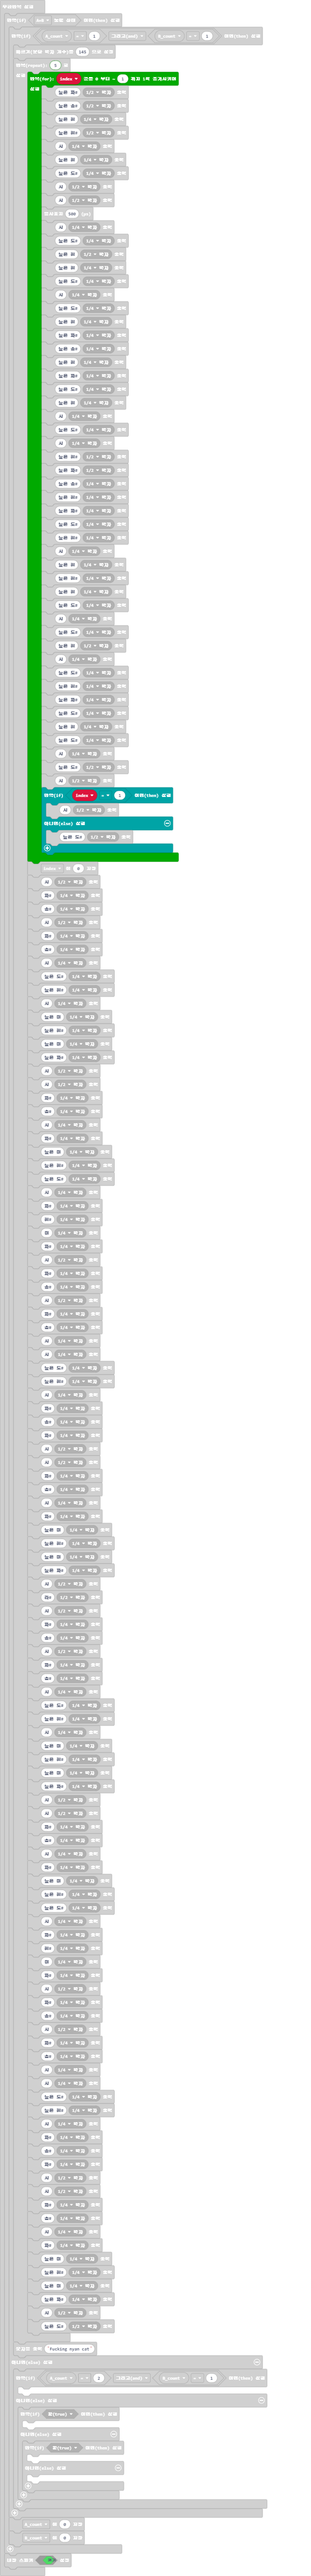
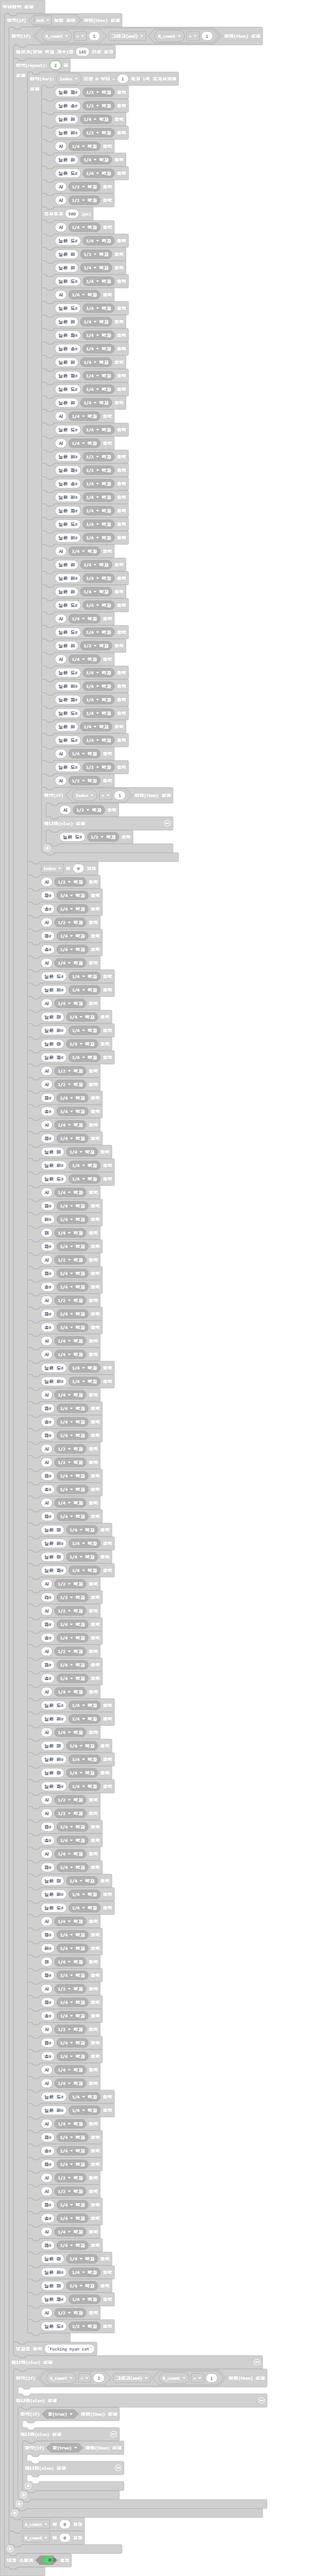
main.blocks, main.ts 업데이트하기

Changed region(s): [[0.0615, 0.0, 0.5841, 0.3434], [0.4304, 0.0, 0.4919, 0.0312], [0.3382, 0.0, 0.3689, 0.0312]]

diff --git a/main.ts b/main.ts
@@ -17,7 +17,7 @@ basic.forever(function () {
     if (input.buttonIsPressed(Button.AB)) {
         if (A_count == 1 && B_count == 1) {
             music.setTempo(145)
-            for (let index2 = 0; index2 < 5; index2++) {
+            for (let index2 = 0; index2 < 2; index2++) {
                 for (let index = 0; index <= 1; index++) {
                     music.playTone(740, music.beat(BeatFraction.Half))
                     music.playTone(831, music.beat(BeatFraction.Half))
